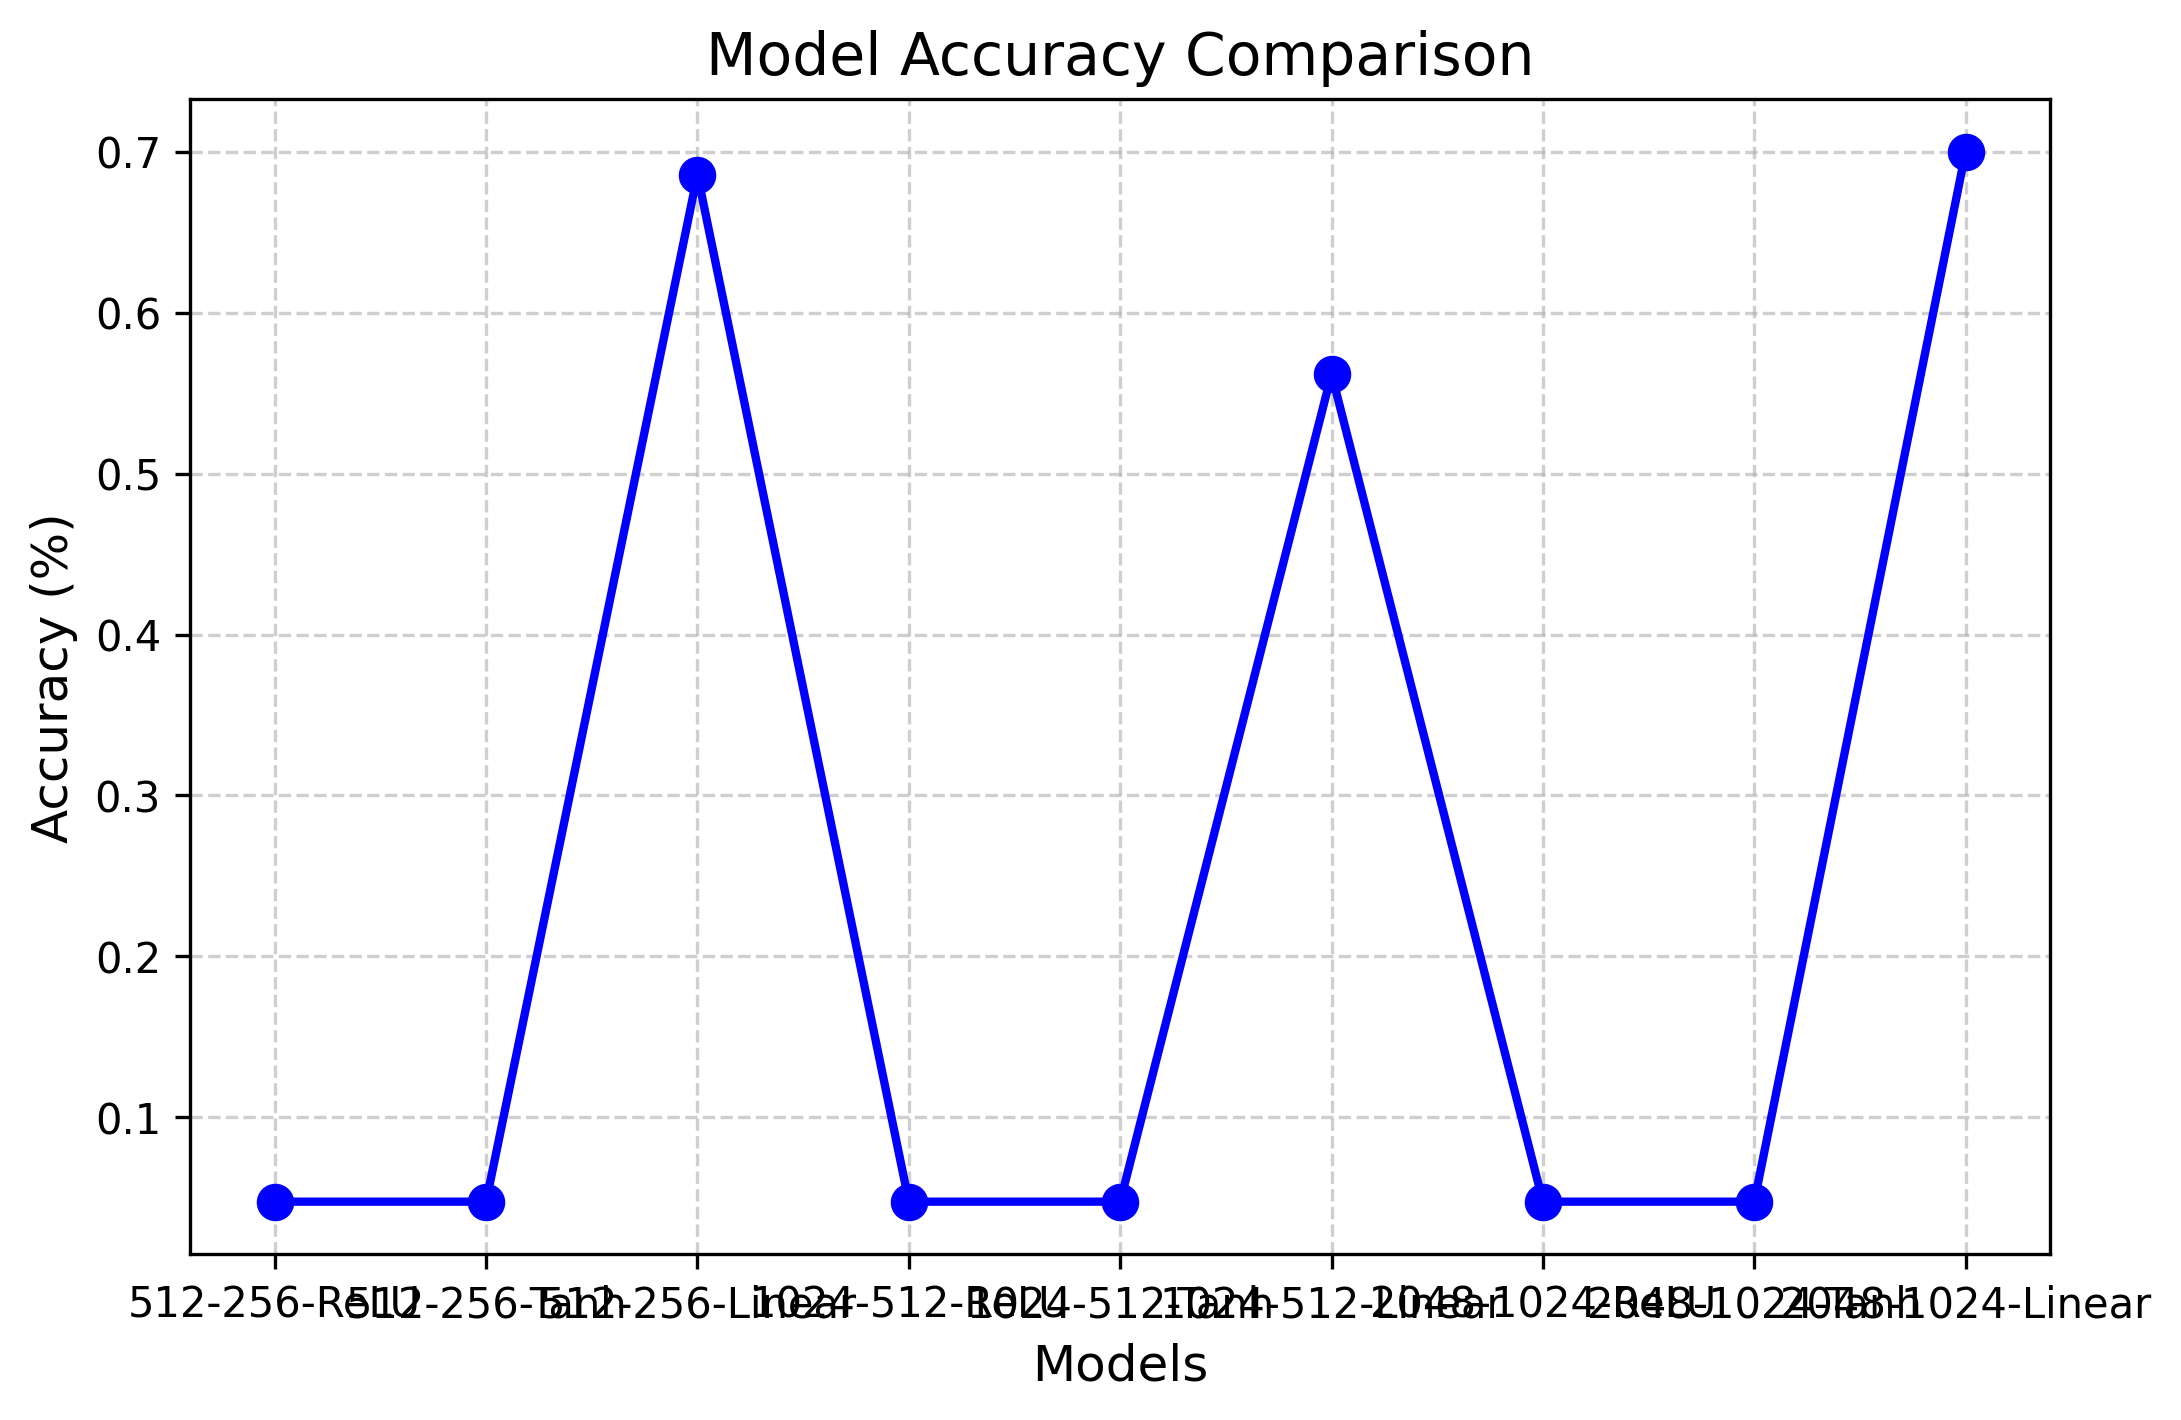
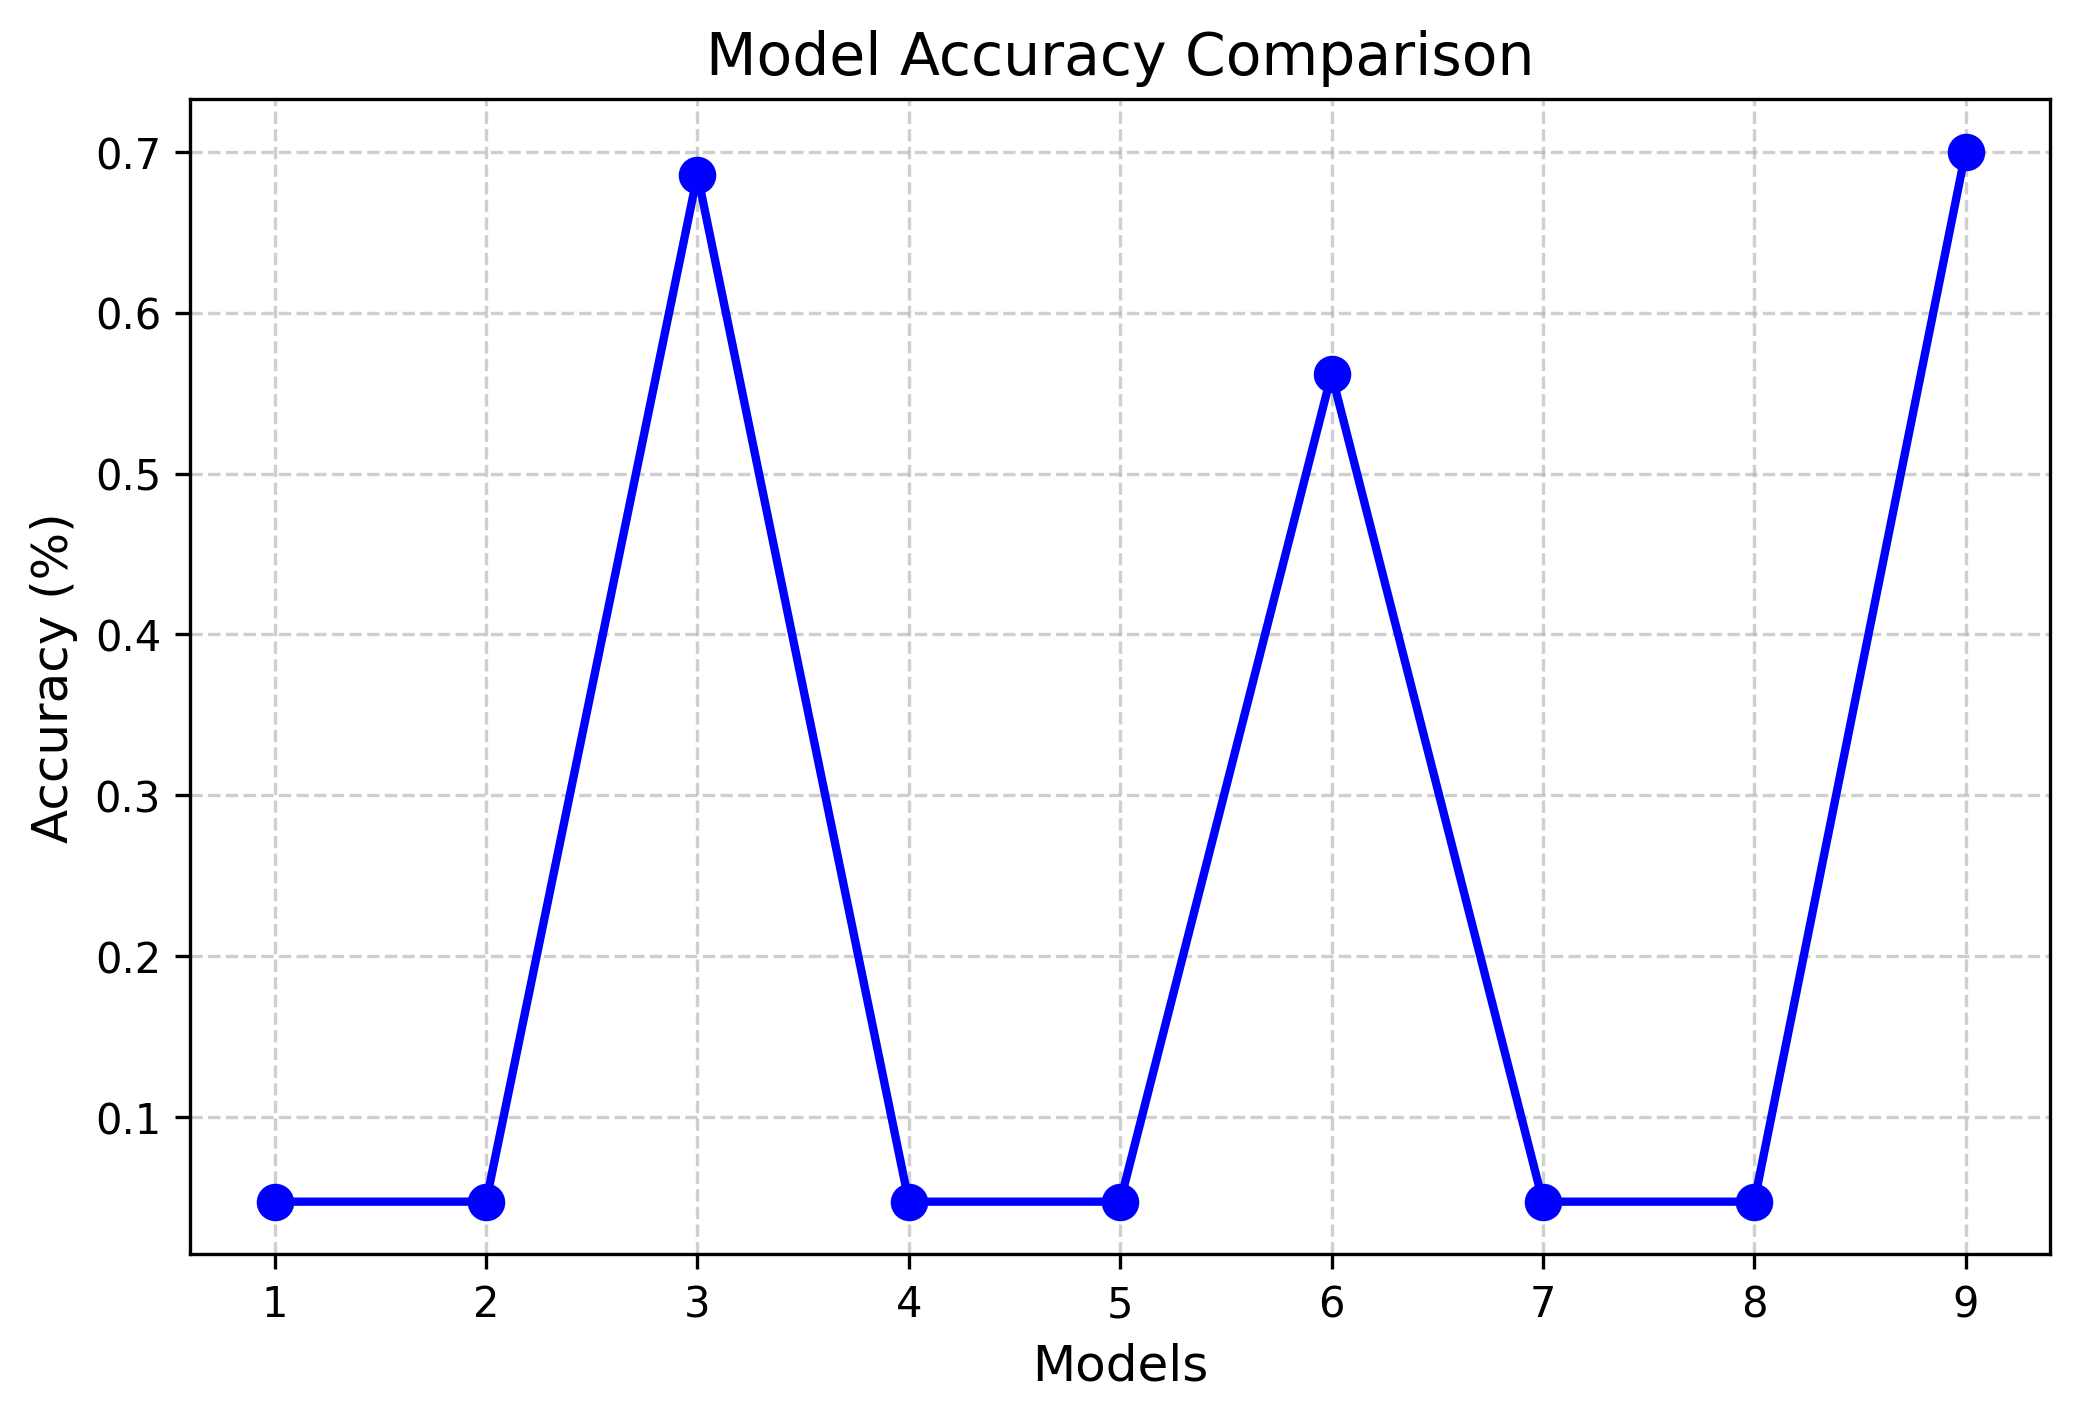
readme edits

diff --git a/code/mlp.py b/code/mlp.py
@@ -187,7 +187,7 @@ def val_and_test_mlp(val_feats, val_labels,test_feats,test_labels):
                 accuracy = (predictions == val_labels).float().mean().item()
                 print(f'Validation Accuracy (MLP) for pair_{Activations[j]}_{HiddenLayers[i][0]}_{HiddenLayers[i][1]} : {accuracy:.4f}')
 
-            accuracy_dict[f'{HiddenLayers[i][0]}-{HiddenLayers[i][1]}-{Activations[j]}'] = accuracy
+            accuracy_dict[i*3+j] = accuracy
 
             if accuracy > best_acc:
                 best_acc = accuracy

diff --git a/README2.md b/README2.md
@@ -1,26 +1,141 @@
 # GNR 638 Assignment-2
 
-In this part of the project, we have implemented a three layer MLP model in the already existing bag of sifts and have experimented on the hidden layer size and the activation function. 
+So this assignment has 2 parts. In both the parts, we have to implement a 3 Layer MLP model. In the first part we are supposed to use the already existing bag of sifts for the data, and in the second part we are supposed to resize the images, and flatten them before passing them into the model. In both the approaches, we are supposed to experiment on the hyperparameters of the models, and we chose the following values for the validation
+
+- Hidden Layer sizes - [(512, 256), (1024, 512), (2048, 1024)]
+- Activations - ['ReLU', 'Tanh', 'Linear']
+
+## Using Bag of Sifts
+
+So in this part we use the bag of sifts we created in the first part for a vocab size of 600. We use this particular vocab size since it was the largest, and having more meaningful (we consider them meaningful since they are extracted from ) input features is always better for a MLP model
+
+The entire code for this part is in [this file](./code/mlp.py)
 
 ### Steps to run the code
 
-```bash
+bash
 python mlp.py --classifier mlp
-```
-Before running the code, we should chnage the hidden layer sizes and activation function in the function below 
 
-```python
- def __init__(self, input_size, hidden_size1=2048, hidden_size2=1024, num_classes=21):
+### Explaining the code
+
+So on running the code, there are 2 main functions that are called
+- `train_mlp` for training the models over the different hyperparameter settings
+- `val_and_test_mlp` for validating the models, to choose one to perform the final test evaluation over
+
+Here is how the MLP model is defined
+
+python
+ def __init__(self, input_size, activation,hidden_size1=2048, hidden_size2=1024, num_classes=21):
         super(MLP, self).__init__()
         self.fc1 = nn.Linear(input_size, hidden_size1)
-        self.relu1 = nn.ReLU()
         self.fc2 = nn.Linear(hidden_size1, hidden_size2)
-        self.relu2 = nn.ReLU()
         self.fc3 = nn.Linear(hidden_size2, num_classes)
-```
-and use the `train_mlp` function to get 9 trained models whose paths go by 
+        
+        self.relu1 = nn.ReLU()
+        self.relu2 = nn.ReLU()
 
-```bash
-'./store/mlp_model_{activation}_{hidden_size1}_{hidden_size2}_600.pth'
-```
-where activation=['ReLU','Tanh','GELU'] and (hidden_size1,hidden_size2)=(2048,1024),(1024,512),(512,256). `train_mlp` for one case (ReLU, 2048, 1024) is done on the uploaded code. Once the 9 trained models are collected, cross_validation using K-fold method `k=5` and test accuracy of the best model can be obtained by running the `mlp.py` code.
+        self.tanh1= nn.Tanh()
+        self.tanh2= nn.Tanh()
+
+        self.activation=activation
+
+ def forward(self, x):
+
+        if(self.activation=='ReLU'):
+            x = self.relu1(self.fc1(x))
+            x = self.relu2(self.fc2(x))
+            x = self.fc3(x)
+        
+        elif(self.activation=='Linear'):
+            x = self.fc1(x)
+            x = self.fc2(x)
+            x = self.fc3(x)
+        
+        elif(self.activation=='Tanh'):
+            x = self.tanh1(self.fc1(x))
+            x = self.tanh2(self.fc2(x))
+            x = self.fc3(x)
+
+        return x
+
+So that we can completely control the follow of information within the MLP model. 
+
+The training procedure looks like this
+
+python
+ for epoch in range(num_epochs):
+    loss_count=0
+    for features, labels in train_loader:
+        optimizer.zero_grad()
+        outputs = model(features)
+        loss = criterion(outputs, labels)
+        loss_count+=loss.item()
+        loss.backward()
+        optimizer.step()
+    scheduler.step(loss_count/len(train_loader))
+
+    print(f'Epoch {epoch+1}/{num_epochs}, Loss: {loss.item():.4f}')
+            
+
+The models are then stored in this format based on the hyperparameters.
+
+bash
+'./store/mlp_model_{activation}_{hidden_size1}_{hidden_size2}.pth'
+
+Then in the validation and testing code, we test for which of the 9 models produced from this training combinations has the best performance, and then we go onto to evaluate that model over the test data to report the final accuracy of the model
+
+Here are the validation results
+
+Validation Accuracy (MLP) for pair_ReLU_512_256 : 0.7000
+Validation Accuracy (MLP) for pair_Tanh_512_256 : 0.7190
+Validation Accuracy (MLP) for pair_Linear_512_256 : 0.6952
+Validation Accuracy (MLP) for pair_ReLU_1024_512 : 0.7095
+Validation Accuracy (MLP) for pair_Tanh_1024_512 : 0.7286
+Validation Accuracy (MLP) for pair_Linear_1024_512 : 0.7143
+Validation Accuracy (MLP) for pair_ReLU_2048_1024 : 0.7286
+Validation Accuracy (MLP) for pair_Tanh_2048_1024 : 0.7048
+Validation Accuracy (MLP) for pair_Linear_2048_1024 : 0.7143
+
+Best Validation Accuracy shows for pair (1024-512, Tanh) = 0.7285714149475098
+Saving graph of validation accuracies to ../results/val-accuracies-MLP.png
+
+This change in accuracy has been captured as seen through this graph
+
+![Validation accuracy](./results/val-accuracies-MLP.png)
+
+Finally now then we use the best performing over the test data, for which the accuracy is reported
+
+bash
+STARTING TEST ON BEST PARAMETERS
+ACCURACY FOR BEST MODEL for pair_(2048-1024, Linear) : 0.7000
+
+
+
+
+
+Validation Accuracy (MLP) for pair_ReLU_512_256 : 0.0476
+Validation Accuracy (MLP) for pair_Tanh_512_256 : 0.0476
+Validation Accuracy (MLP) for pair_Linear_512_256 : 0.6857
+Validation Accuracy (MLP) for pair_ReLU_1024_512 : 0.0476
+Validation Accuracy (MLP) for pair_Tanh_1024_512 : 0.0476
+Validation Accuracy (MLP) for pair_Linear_1024_512 : 0.5619
+Validation Accuracy (MLP) for pair_ReLU_2048_1024 : 0.0476
+Validation Accuracy (MLP) for pair_Tanh_2048_1024 : 0.0476
+Validation Accuracy (MLP) for pair_Linear_2048_1024 : 0.7000
+
+Best Validation Accuracy shows for pair (2048-1024, Linear) = 0.699999988079071
+Saving graph of validation accuracies to ../results/val-accuracies-MLP-flattened.png  
+
+
+
+
+
+
+### Important chnages from Assignment 1:
+
+- The experiment is conducted on vocab=600 as the MLP can train more efficiently if it has more bag of sift features and words, as the paramteres of the model is discussed here. The split of the dataset is kept the same in bag of sifts code.
+
+- Created a file [mlp.py](./code/mlp.py) which is based off [assignment.py](./code/assignment.py) for the implementation of MLP in bag of sifts and [flattened_mlp.py](./code/flattened_mlp.py) where the dataset is linearised into a 1D array of reduced dimensions 72*72 is passed as the input into the model and the same experiment is conducted on this linearized vector.
+
+-the train_image_feats val_image_feats and test_image_feats are loaded directly from the .pkl files created before and are passed on to the model for training, validatiion and testing.
+

diff --git a/README.md b/README.md
@@ -14,6 +14,4 @@ This is the submission for GNR638 Assignment 1 and 2
 
 
 
-### Important chnages from Assignment 1:
 
-The experiment is conducted on `vocab=600` as the MLP can train more efficiently if it has more bag of sift features and words, as the paramteres of the model is discussed here. Cross validat
